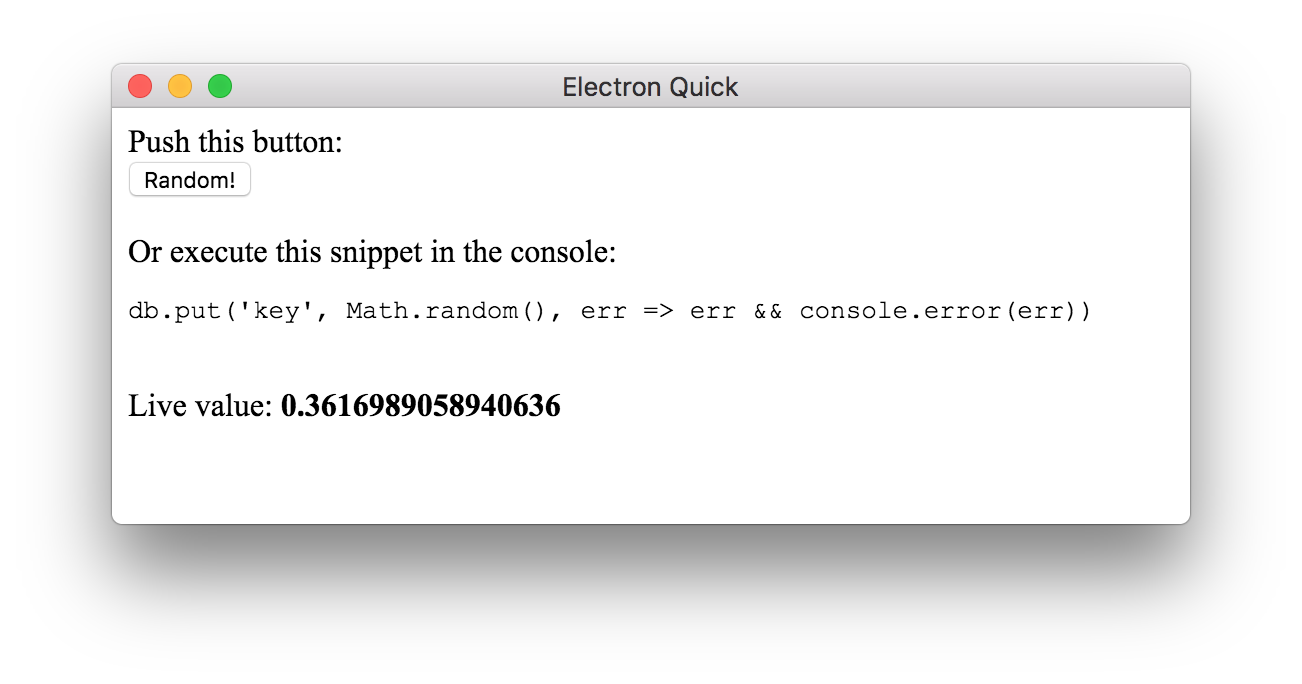
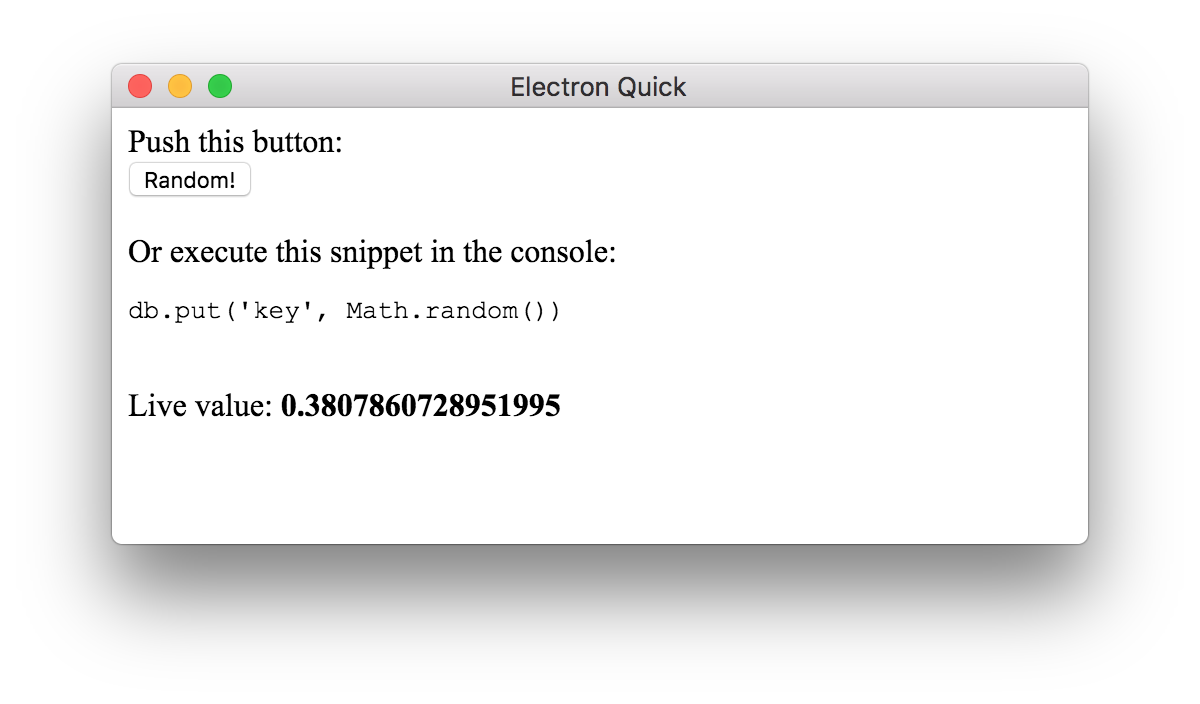
modernize example

Changed region(s): [[0.0617, 0.0921, 0.925, 0.7675], [0.0925, 0.7675, 0.8942, 0.7982]]

diff --git a/example/index.js b/example/index.js
@@ -6,14 +6,14 @@ const db = window.db = level('/tmp/preact-level-value')
 
 class Example extends Component {
   random () {
-    db.put('key', Math.random(), err => err && console.error(err))
+    db.put('key', Math.random())
   }
   render () {
     return <div id="example">
         Push this button:<br />
         <button onclick={ this.random }>Random!</button><br /><br />
         Or execute this snippet in the console:<br />
-        <pre>db.put('key', Math.random(), err => err && console.error(err))</pre><br />
+        <pre>db.put('key', Math.random())</pre><br />
         Live value: <strong><Value db={db} key="key" /></strong>
       </div>
   }
